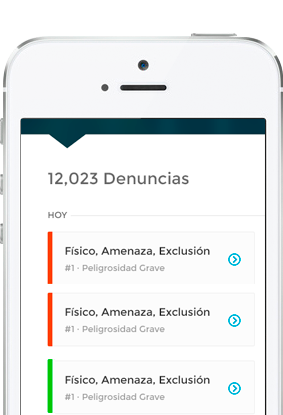
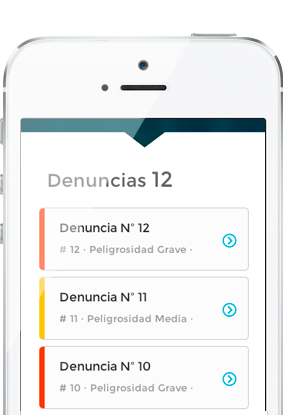
dashboard responsive

diff --git a/app/assets/stylesheets/_global.scss b/app/assets/stylesheets/_global.scss
@@ -451,7 +451,6 @@ h6{
 .contenido {
 	text-align: center;
 
-
 	& img {
 		margin: 15px 0;
 		padding-top: 20px;
@@ -459,6 +458,7 @@ h6{
 
 		p {
 			margin-top: 45px;
+			text-align: left;
 	}
 
 	span {
@@ -467,18 +467,26 @@ h6{
 	}
 
 	@include max-screen (500px) {
-		img {
-			display: none;
-		}
 
-	.copy-script {
-		width: 100%;
+		.buttons{
+			text-align:left;
+			float: left;
+			}
+		.copy-script {
+			width: 100%;
+			}
 
-		}
+			img {
+				display: none;
+			}
+
+    .btn-copy {
+	    span {
+	   	 margin-bottom: 20px;
+	    }
+  	}
 	}
 }
-
-
 
 .title-config {
 	text-align: center;
@@ -645,8 +653,7 @@ h6{
 	color: #666666;
 	position: relative;
 	text-align: left;
-	height: 50px;
-	padding: 10px 0 20px 25px;
+	padding: 20px 40px 20px 25px;
 	margin: 8px 0;
 	border: #ccc solid 1px;
 	border-radius: 5px;
@@ -696,13 +703,23 @@ h6{
 	
 	@include max-screen (500px) {
 	
+	.list-item {
+		padding: 5px 0 5px 25px;
+		font-size: 13px;
+	}
+
+
 		& p {
 			color: #999999;
 			font-size: 13px;
 		}
 
-		span {
+		span.case-grade {
 			display: none;
+		}
+
+		span.case-id {
+			font-size: 13px;
 		}
 	}
 	
@@ -721,6 +738,14 @@ h6{
 }
 
 .note {
+
+	
+	@include max-screen (500px) {
+		&.note {
+			text-align: left;
+		}
+	}
+
 
 	p {
 		font-size: 13px;

diff --git a/app/assets/stylesheets/_buttons.scss b/app/assets/stylesheets/_buttons.scss
@@ -58,13 +58,11 @@
     color: #61A10D
   }
 
-      input:hover {
+  input:hover {
     background: none;
     border: none;
     color: #0A5F8A;
-
-    }
-
+  }
 }
 
 .btn-form {
